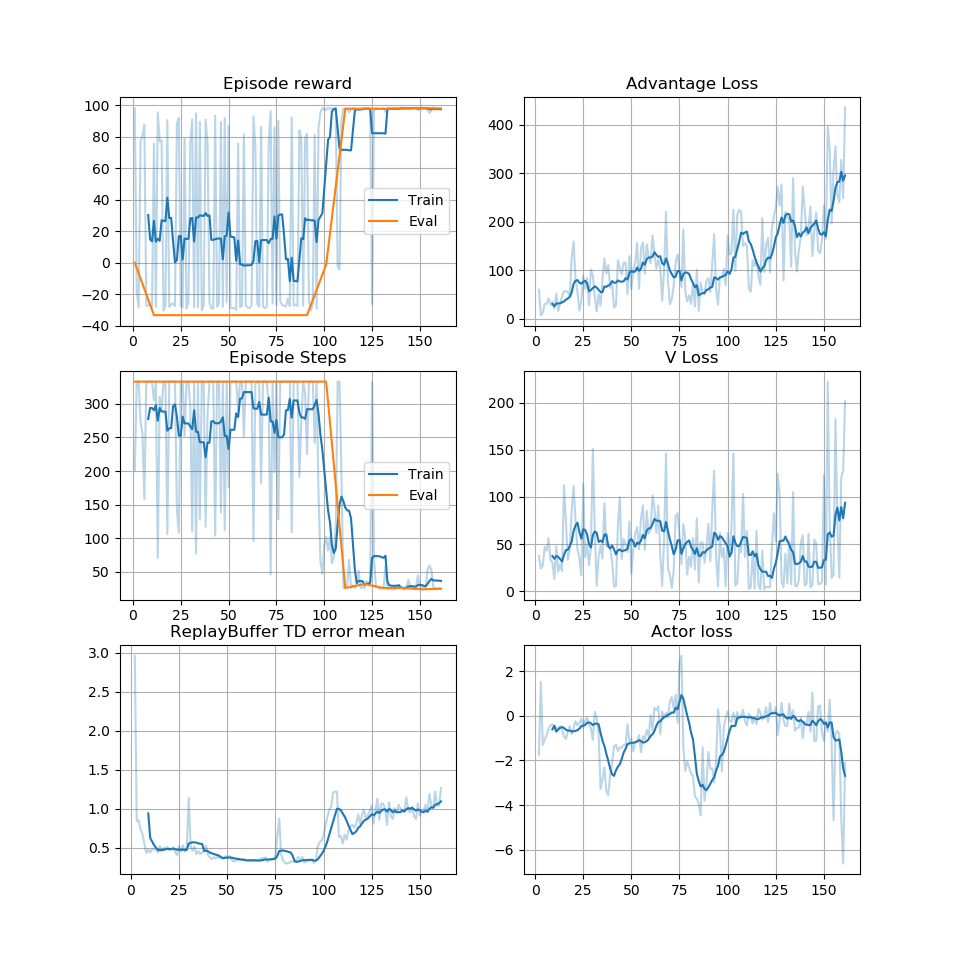
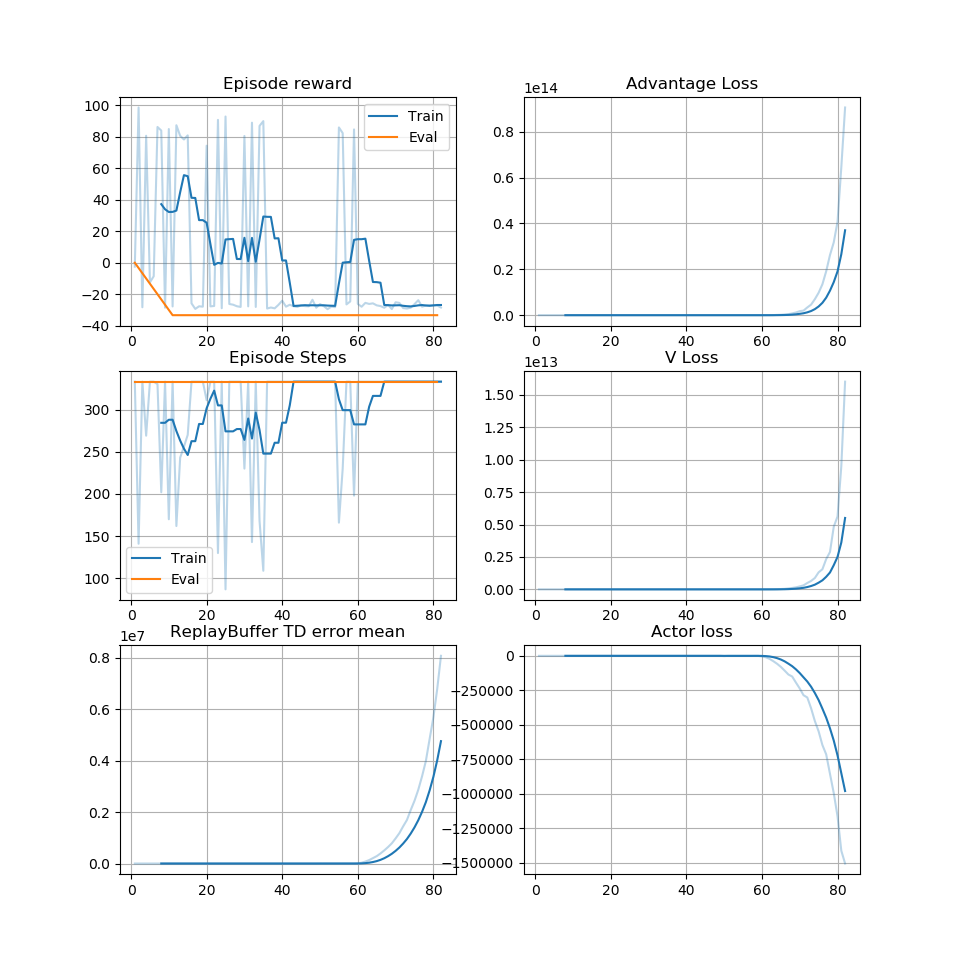
Sampling probability of replay buffer now becomes more random over time

diff --git a/agents/replay_buffer.py b/agents/replay_buffer.py
@@ -6,7 +6,7 @@ Experience = namedtuple("Experience", field_names=["state", "action", "reward", 
 class ReplayBuffer:
     """Fixed-size buffer to store experience tuples."""
 
-    def __init__(self, buffer_size=100000):
+    def __init__(self, buffer_size=100000, decay_steps=500):
         """Initialize a ReplayBuffer object.
         Params
         ======
@@ -16,6 +16,12 @@ class ReplayBuffer:
         self._memory = list()
         self._td_err = np.empty([0])
         self._epsilon = 1e-7
+        self._a = 1.0 # when 0 → pure random, when 1 → td_err determines the sampling probability
+        self._a_drop_step = self._a / float(decay_steps)
+
+    def decay_a(self):
+        self._a -= self._a_drop_step
+        self._a = max(self._a, 0.0)
 
     def add(self, exp, td_err):
         """Add a new experience to memory."""
@@ -31,6 +37,7 @@ class ReplayBuffer:
     def sample(self, batch_size=64):
         """Randomly sample a batch of experiences from memory."""
         p = np.absolute(self._td_err) + self._epsilon
+        p = np.power(p, self._a)
         p = p / np.sum(p)
         idx = np.random.choice(len(self), batch_size, replace=False, p=p)
         return [self._memory[i] for i in idx], idx

diff --git a/agents/agent.py b/agents/agent.py
@@ -29,9 +29,8 @@ class Agent():
         self.noise = OUNoise(task.action_size, exploration_mu, exploration_theta, exploration_sigma)
 
         # Replay memory
-        buffer_size = 100000
         self.batch_size = 256
-        self.memory = ReplayBuffer(buffer_size)
+        self.memory = ReplayBuffer(buffer_size=10000, decay_steps=100)
 
         self.sess.run(tf.global_variables_initializer())
 
@@ -39,6 +38,7 @@ class Agent():
         self.noise.reset()
         state = self.task.reset()
         self.last_state = state
+        self.memory.decay_a()
         return state
 
     def step(self, action, reward, next_state, done):

diff --git a/README.md b/README.md
@@ -6,12 +6,15 @@ Current version has simplified task - learn `MountainCarContinuous-v0` task from
 ## Features
 
 * Dueling Q-Network as an Actor Critic;
-* Simple Policy as an Actor;
-* Replay Buffer with priority replay. When sampling from it, Q-Network doesn't take into account that some samples are fetched more often;
+* Policy as an Actor. It's simple 3 layer network with some dropout and leaky relu;
+* Replay Buffer with priority replay. TD Error determines the priority. During training the priority becomes less important and Buffer starts to sample more randomly. Also Q-Network doesn't take into account that some samples are fetched more often;
 * Statistics visualization;
-* Tensorflow implementation.
+* Model is saved and can be later used to see how agent behaves in the environment;
+* Pure TensorFlow implementation. Because we can.
 
 ## Metrics
+
+On this graph it can be easily seen, that removing priority sampling from the Replay Buffer isn't a good idea. In the beginning of the training the samples were taken by priority. After 100 episode they should be taken 100% random. But event on the 80th episode it's clear, that the training process wouldn't converge soon.
 
 ![Metrics](./graphs.png)
 
